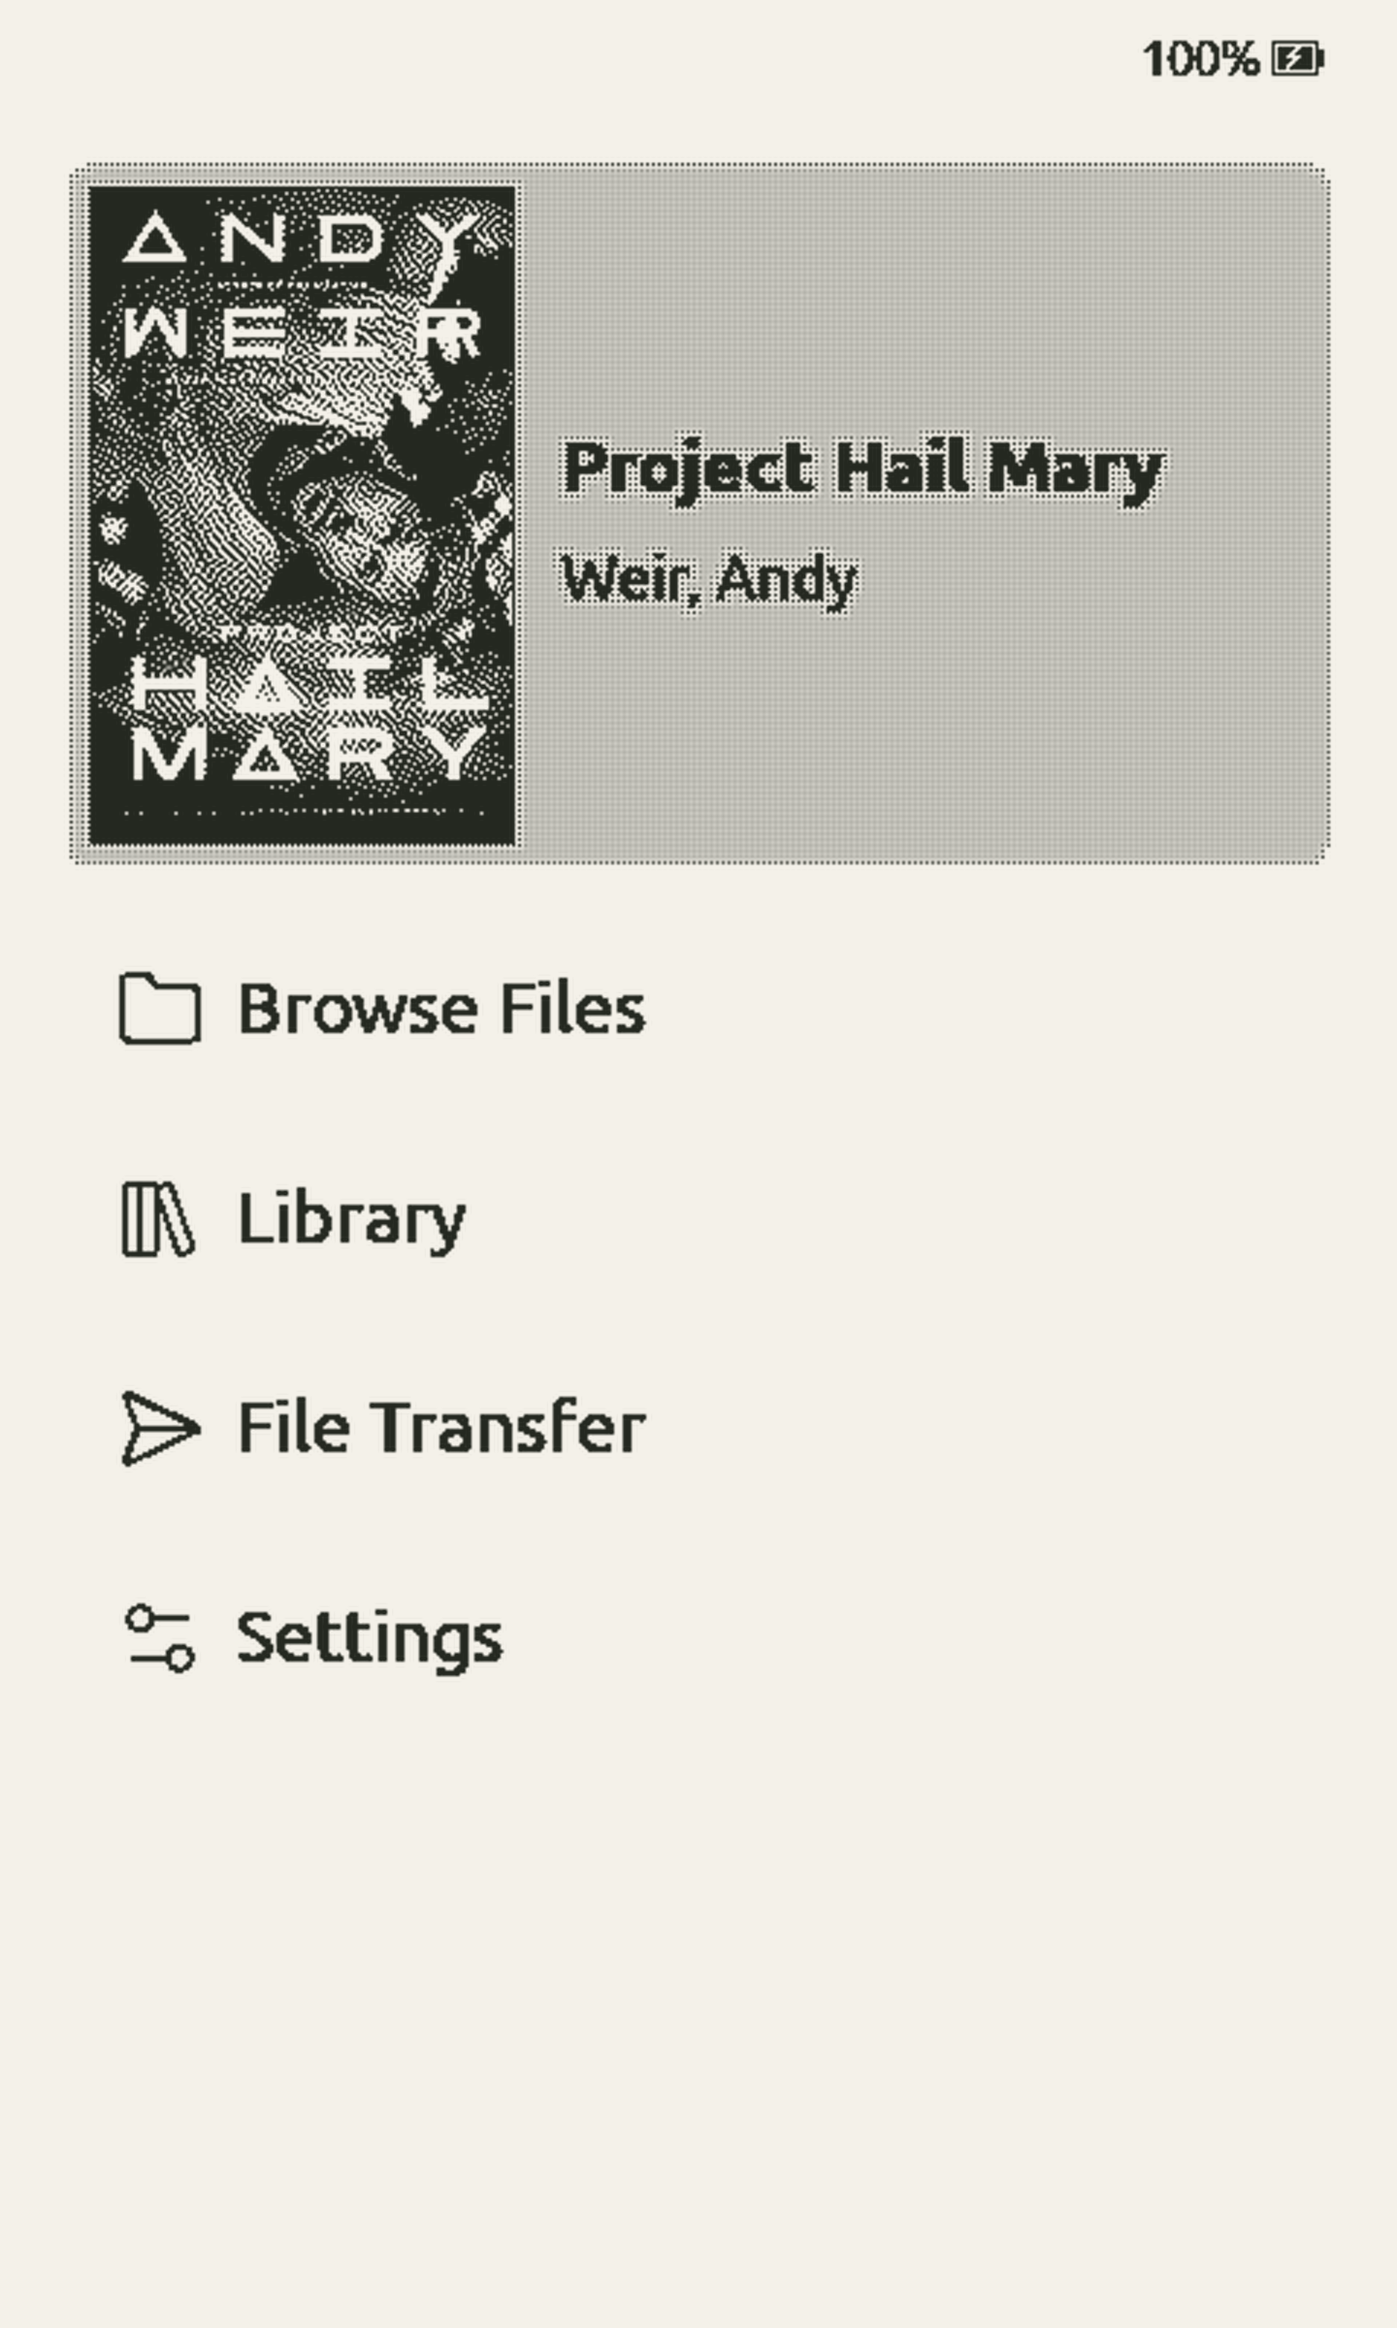
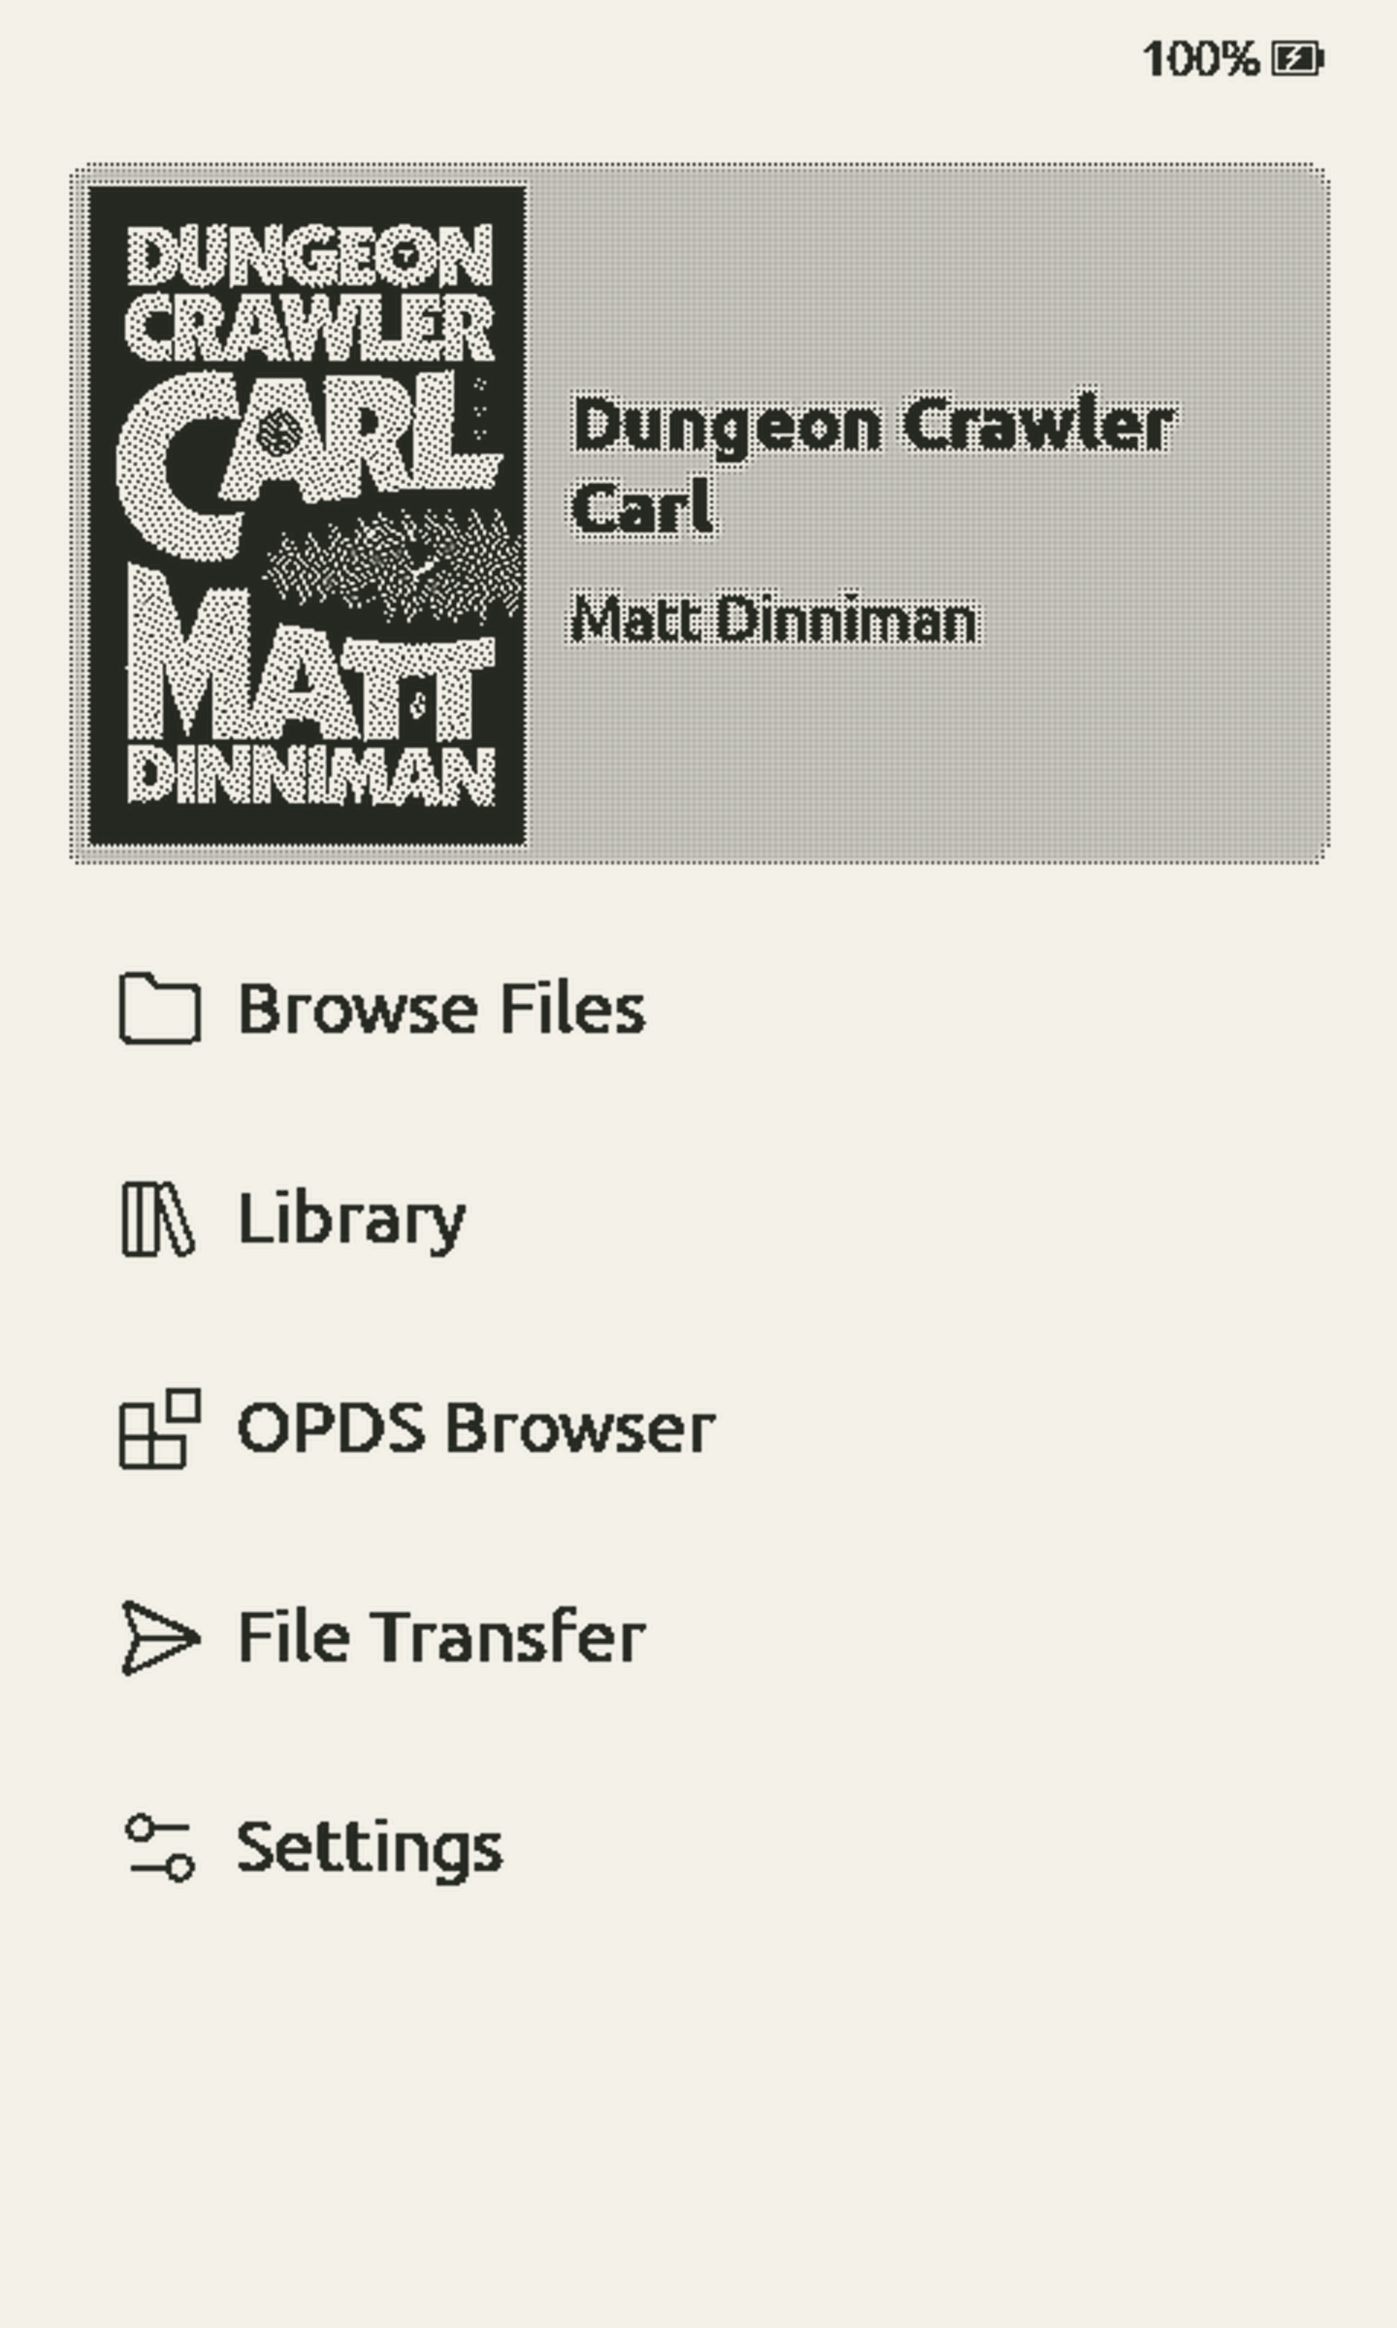
Restructure Sync section layout on home page
Reorder Sync section to show heading first, then place screenshots and copy side-by-side in a new layout container. Add CSS classes to screenshots for better styling control. Also simplify SD card plugins description text.

diff --git a/src/pages/home/home.css b/src/pages/home/home.css
@@ -61,7 +61,7 @@
   .home-start { flex-direction: column; align-items: start; }
 }
 
-.home-opening { display: grid; grid-template-columns: 1fr 1fr; gap: 65px; align-items: center; padding-block: 75px; }
+.home-opening { display: grid; grid-template-columns: 1fr 1fr; gap: 65px; align-items: center; padding-block: 75px 24px; }
 .home-opening h1 { font-size: clamp(3.5rem, 6.5vw, 6rem); line-height: 1.05; }
 .home-opening-copy > p { max-width: 440px; font-size: 16px; line-height: 1.8; color: #555b50; margin-top: 25px; }
 .home-opening-actions { display: flex; flex-wrap: wrap; gap: 12px; margin-top: 30px; }
@@ -77,7 +77,7 @@
   .home-feature-type { min-height: 0; align-content: start; }
 }
 @media (max-width: 640px) {
-  .home-opening { grid-template-columns: 1fr; padding-block: 40px; }
+  .home-opening { grid-template-columns: 1fr; padding-block: 40px 16px; }
   .home-opening-screens { max-width: 420px; width: 100%; margin-inline: auto; padding: 25px; gap: 25px; }
   .home-extras { grid-template-columns: 1fr; gap: 30px; }
   .home-extras article + article { padding-top: 30px; border-top: 1px solid var(--home-rule); }
@@ -86,16 +86,23 @@
 .home-lineup-link { display: block; width: fit-content; margin: 14px 0 0 auto; }
 
 .home-sync { padding-bottom: 90px; }
-.home-sync .home-section-heading { align-items: start; }
-.home-sync .home-section-heading > p { max-width: 480px; }
-.home-sync-actions { display: flex; flex-wrap: wrap; align-items: center; gap: 20px; margin-top: 25px; }
-.home-sync-details { display: grid; grid-template-columns: repeat(3, minmax(0, 1fr)); gap: 40px; margin-block: 36px; }
-.home-sync-details h3 { font-size: 1.45rem; }
-.home-sync-details p { margin-top: 14px; font-size: 14px; line-height: 1.8; color: #555b50; }
-.home-sync-screens { display: grid; grid-template-columns: minmax(0, 3.5fr) minmax(0, 1fr); align-items: center; gap: 35px; padding: 35px; background: var(--color-panel); }
+.home-sync-layout { display: grid; grid-template-columns: minmax(0, 1.6fr) minmax(0, 1fr); align-items: center; gap: 48px; margin-top: 36px; }
+.home-sync-details { display: grid; gap: 28px; }
+.home-sync-details h3 { font-size: 1.45rem; text-wrap: initial; }
+.home-sync-details p { margin-top: 10px; font-size: 14px; line-height: 1.8; color: #555b50; }
+.home-sync-actions { display: flex; flex-direction: column; align-items: start; gap: 18px; margin-top: 30px; }
+.home-sync-screens { position: relative; aspect-ratio: 1.25; background: var(--color-panel); }
+.home-sync-library { position: absolute; width: 86%; top: 10%; left: 5%; }
+.home-sync-clippings { position: absolute; width: 27%; right: 6%; bottom: 7%; }
+@media (max-width: 1000px) {
+  .home-sync-layout { grid-template-columns: 1fr; gap: 35px; }
+  .home-sync-screens { width: 100%; max-width: 760px; margin-inline: auto; }
+  .home-sync-details { grid-template-columns: repeat(3, minmax(0, 1fr)); gap: 28px; }
+  .home-sync-actions { flex-direction: row; flex-wrap: wrap; align-items: center; gap: 20px; }
+}
 @media (max-width: 640px) {
   .home-sync { padding-bottom: 55px; }
+  .home-sync-layout { margin-top: 28px; gap: 30px; }
   .home-sync-details { grid-template-columns: 1fr; gap: 24px; }
-  .home-sync-screens { grid-template-columns: 1fr; gap: 30px; padding: 20px; }
-  .home-sync-screens img:last-child { max-width: 220px; margin-inline: auto; }
+  .home-sync-screens .reader-screenshot { border-width: 4px; border-radius: 8px; box-shadow: 5px 7px 0 #d4d5c7; }
 }

diff --git a/src/pages/HomePage.jsx b/src/pages/HomePage.jsx
@@ -60,23 +60,23 @@ export default function HomePage() {
         <PressQuotes />
 
         <section className="home-sync home-wrap" id="crosspoint-sync">
-          <div className="home-section-heading">
-            <div>
-              <h2>CrossPoint Sync</h2>
+          <h2>CrossPoint Sync</h2>
+          <div className="home-sync-layout">
+            <div className="home-sync-screens">
+              <img className="reader-screenshot home-sync-library" src="/sync/library.webp" alt="CrossPoint Sync web library showing current books and reading progress" width="1600" height="1000" loading="lazy" />
+              <img className="reader-screenshot home-sync-clippings" src="/sync/clippings.webp" alt="CrossPoint Sync mobile clippings view with search, Markdown export, and sharing" width="780" height="1688" loading="lazy" />
+            </div>
+            <div className="home-sync-copy">
+              <div className="home-sync-details">
+                <div><h3>Reading progress across devices</h3><p>Keep your place across CrossPoint and KOReader devices. View your current books, finished reads, and reading stats in the app.</p></div>
+                <div><h3>Search and share highlights</h3><p>Find saved passages across your books, copy clippings as Markdown, or share a passage as an image.</p></div>
+                <div><h3>Connect your reading services</h3><p>Update your shelves and progress on Hardcover, send highlights to Readwise, or sync your place with BookFusion and Audiobookshelf.</p></div>
+              </div>
               <div className="home-sync-actions">
                 <Button href="https://sync.crosspointreader.com/" variant="primary">Explore CrossPoint Sync <span aria-hidden="true">↗</span></Button>
                 <Link className="home-text-link" to="/docs#367-koreader-sync-quick-setup?doc=user_guide">Set up your reader →</Link>
               </div>
             </div>
-          </div>
-          <div className="home-sync-details">
-            <div><h3>Reading progress across devices</h3><p>Keep your place across CrossPoint and KOReader devices. View your current books, finished reads, and reading stats in the app.</p></div>
-            <div><h3>Search and share highlights</h3><p>Find saved passages across your books, copy clippings as Markdown, or share a passage as an image.</p></div>
-            <div><h3>Connect your reading services</h3><p>Update your shelves and progress on Hardcover, send highlights to Readwise, or sync your place with BookFusion and Audiobookshelf.</p></div>
-          </div>
-          <div className="home-sync-screens">
-            <img className="reader-screenshot" src="/sync/library.webp" alt="CrossPoint Sync web library showing current books and reading progress" width="1600" height="1000" loading="lazy" />
-            <img className="reader-screenshot" src="/sync/clippings.webp" alt="CrossPoint Sync mobile clippings view with search, Markdown export, and sharing" width="780" height="1688" loading="lazy" />
           </div>
         </section>
 

diff --git a/src/pages/home/Features.jsx b/src/pages/home/Features.jsx
@@ -48,7 +48,7 @@ export default function Features() {
         </Story>
       </div>
       <div className="home-extras">
-        <article><h3>SD card plugins</h3><p>Load plugins from your SD card to add book catalogs, download sources, and web-interface tools without reflashing the firmware. Manage books with the browser file manager and reduce EPUB file sizes with the optimizer.</p><Link className="home-text-link" to="/docs#364-system?doc=user_guide">Set up SD card plugins →</Link></article>
+        <article><h3>SD card plugins</h3><p>Add book catalogs and download sources with SD card plugins, without reflashing firmware. Use web tools to manage books in your browser and shrink EPUB files with the optimizer.</p><Link className="home-text-link" to="/docs#364-system?doc=user_guide">Set up SD card plugins →</Link></article>
         <article><h3>Free over-the-air updates</h3><p>Update CrossPoint over Wi-Fi for free on supported devices. BOOX Picco updates use USB. Follow development on the roadmap, suggest changes, or try new features in nightly builds.</p><Link className="home-text-link" to="/docs#firmware-updates?doc=user_guide">Read the update instructions →</Link></article>
       </div>
     </section>

diff --git a/scripts/screenshots/test_pipeline.py b/scripts/screenshots/test_pipeline.py
@@ -39,9 +39,11 @@ class PipelineTest(unittest.TestCase):
             binary = root / 'program'
             binary.write_bytes(b'binary')
             recipe = {'books': ['Test.epub'], 'settings': {'fontSize': 14, 'screenMargin': 20}, 'scenes': [
-                {'name': 'test', 'book': 'Test.epub', 'position': [8, 1], 'at': 2000, 'settings': {'fontSize': 18}}]}
+                {'name': 'test', 'book': 'Test.epub', 'position': [8, 1], 'at': 2000, 'settings': {'fontSize': 18}, 'opdsServers': [{'name': 'Library', 'url': 'https://example.org/opds'}]}]}
             def simulator(command, **kwargs):
                 sd = Path(kwargs['env']['CROSSPOINT_SIM_SD'])
+                self.assertEqual(json.loads((sd / '.crosspoint/opds.json').read_text()),
+                                 {'servers': [{'name': 'Library', 'url': 'https://example.org/opds'}]})
                 self.assertEqual(json.loads((sd / '.crosspoint/settings.json').read_text())['fontSize'], 18)
                 self.assertEqual(json.loads((sd / '.crosspoint/settings.json').read_text())['screenMargin'], 20)
                 self.assertEqual(json.loads((sd / '.crosspoint/state.json').read_text())['openEpubPath'], '/books/Test.epub')
@@ -131,6 +133,19 @@ class PipelineTest(unittest.TestCase):
                 path.write_text(json.dumps(recipe))
                 with self.assertRaises(ValueError):
                     pipeline.read_recipe(path)
+
+    def test_rejects_invalid_opds_servers(self):
+        with tempfile.TemporaryDirectory() as directory:
+            path = Path(directory) / 'recipe.json'
+            for servers in (None, [{}], [{'name': '', 'url': 'https://example.org'}],
+                            [{'name': 'Library', 'url': 'file:///tmp/catalog'}],
+                            [{'name': 'Library', 'url': 'https://user:secret@example.org'}],
+                            [{'name': 'Library', 'url': 'https://example.org'}] * 9):
+                with self.subTest(servers=servers):
+                    path.write_text(json.dumps({'books': [], 'scenes': [
+                        {'name': 'home', 'at': 2000, 'opdsServers': servers}]}))
+                    with self.assertRaises(ValueError):
+                        pipeline.read_recipe(path)
 
     def test_regular_dither_is_smoothed_without_changing_paper(self):
         with tempfile.TemporaryDirectory() as directory:

diff --git a/scripts/screenshots/pipeline.py b/scripts/screenshots/pipeline.py
@@ -12,6 +12,7 @@ import struct
 import subprocess
 import tempfile
 import time
+from urllib.parse import urlsplit
 
 from PIL import Image, ImageChops, ImageFilter, ImageOps
 
@@ -47,6 +48,17 @@ def read_recipe(path):
             if not scene.get('book') or len(scene['position']) != 2 or any(
                     not isinstance(n, int) or not 0 <= n < 65535 for n in scene['position']):
                 raise ValueError(f'{name}: position needs a book and [spine, page] indexes')
+        servers = scene.get('opdsServers', [])
+        if not isinstance(servers, list) or len(servers) > 8:
+            raise ValueError(f'{name}: opdsServers must be a list of at most 8 servers')
+        for server in servers:
+            if not isinstance(server, dict) or set(server) != {'name', 'url'}:
+                raise ValueError(f'{name}: each OPDS server needs only name and url')
+            if not isinstance(server['name'], str) or not server['name'].strip() or not isinstance(server['url'], str):
+                raise ValueError(f'{name}: OPDS name and URL must be nonempty strings')
+            url = urlsplit(server['url'])
+            if url.scheme not in {'http', 'https'} or not url.hostname or url.username or url.password:
+                raise ValueError(f'{name}: OPDS URL must be HTTP(S) without credentials')
         previous = -1
         for at, action in scene.get('inputs', []):
             if not isinstance(at, int) or not previous < at < scene['at']:
@@ -121,6 +133,7 @@ def capture(binary, books, recipe, output, fonts=None):
             settings = {'language': 'EN', 'textAntiAliasing': 1, **recipe.get('settings', {}),
                         **scene.get('settings', {})}
             (sd / '.crosspoint/settings.json').write_text(json.dumps(settings))
+            (sd / '.crosspoint/opds.json').write_text(json.dumps({'servers': scene.get('opdsServers', [])}))
             state = {'showBootScreen': False, 'lastSleepFromReader': bool(scene.get('book')),
                      'openEpubPath': f"/books/{scene['book']}" if scene.get('book') else ''}
             (sd / '.crosspoint/state.json').write_text(json.dumps(state))

diff --git a/scripts/screenshots/README.md b/scripts/screenshots/README.md
@@ -104,6 +104,7 @@ For landscape, set `"orientation": 1` in the scene's `settings` and `"size": [80
 | `book` | EPUB to open at startup. Omit to start at Home. |
 | `position` | Optional zero-based `[spine, page]`: EPUB reading-order section and page within that section. Font or margin changes alter page contents, so the same page number need not show the same passage. |
 | `settings` | Overrides for this scene only. |
+| `opdsServers` | Optional list of up to eight `{ "name": "Common Stacks", "url": "http://library.local/opds" }` objects, staged into the firmware’s OPDS store. |
 | `inputs` | Ordered `[milliseconds, button]` pairs. Omit when no input is needed. |
 | `at` | Capture time, 1000–180000 milliseconds after startup. |
 | `size` | Expected native logical panel size, default `[480, 800]`. Output is three times this size. |
@@ -216,3 +217,5 @@ Run `npm run test:screenshots` after code changes. It checks image processing, o
 Firmware and simulator revisions are pinned in [sources.json](sources.json). The firmware pin precedes a web-server change that failed to compile with the pinned simulator. Do not update pins for routine captures. When deliberately upgrading, preserve old cached checkouts, rerun setup, check the firmware settings/progress schema, and review the affected scenes again. See the firmware checkout's own instructions before modifying it.
 
 Automation runs on the machine holding the EPUB collection. Hosted GitHub runners cannot access `/Users/jmitch/Books/Common Stacks`; no hosted capture job or scheduled task is installed by this pipeline.
+
+The `hero-home` scene uses *Dungeon Crawler Carl* and a Common Stacks OPDS entry so the home menu includes OPDS. `http://library.local/opds` is a screenshot fixture, not a hosted service; home-screen capture does not connect to it. Set a real endpoint before capturing a browsing session. Do not put credentials in this public configuration.
